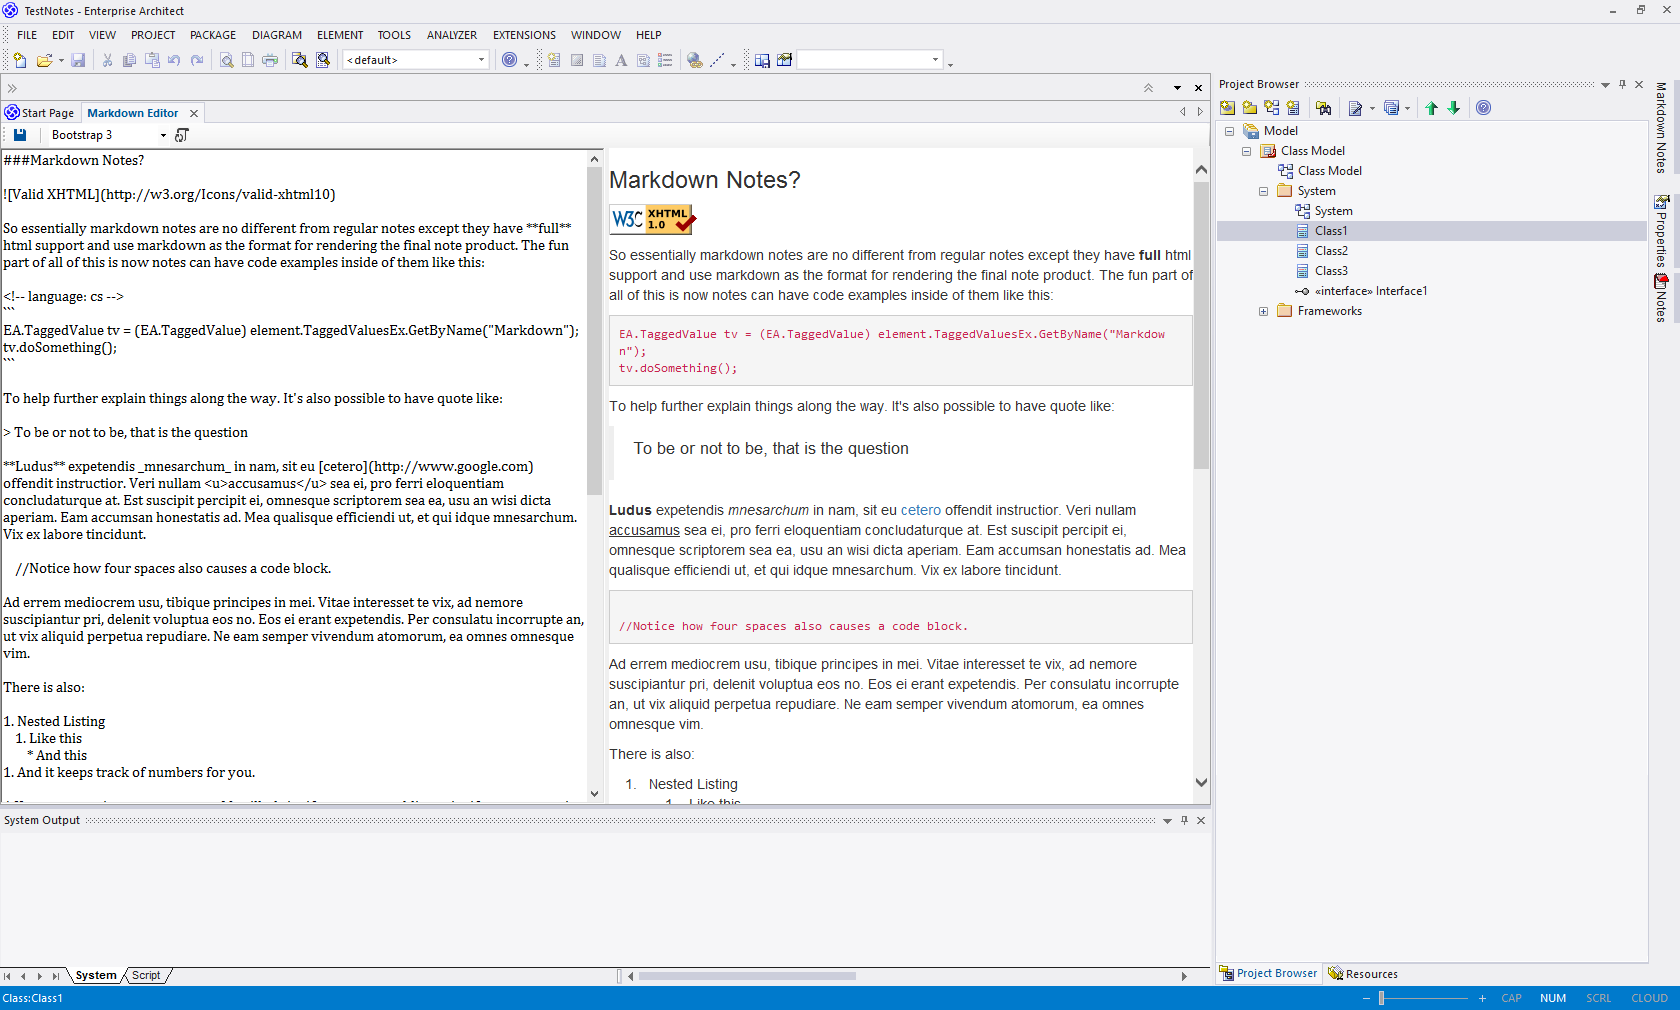
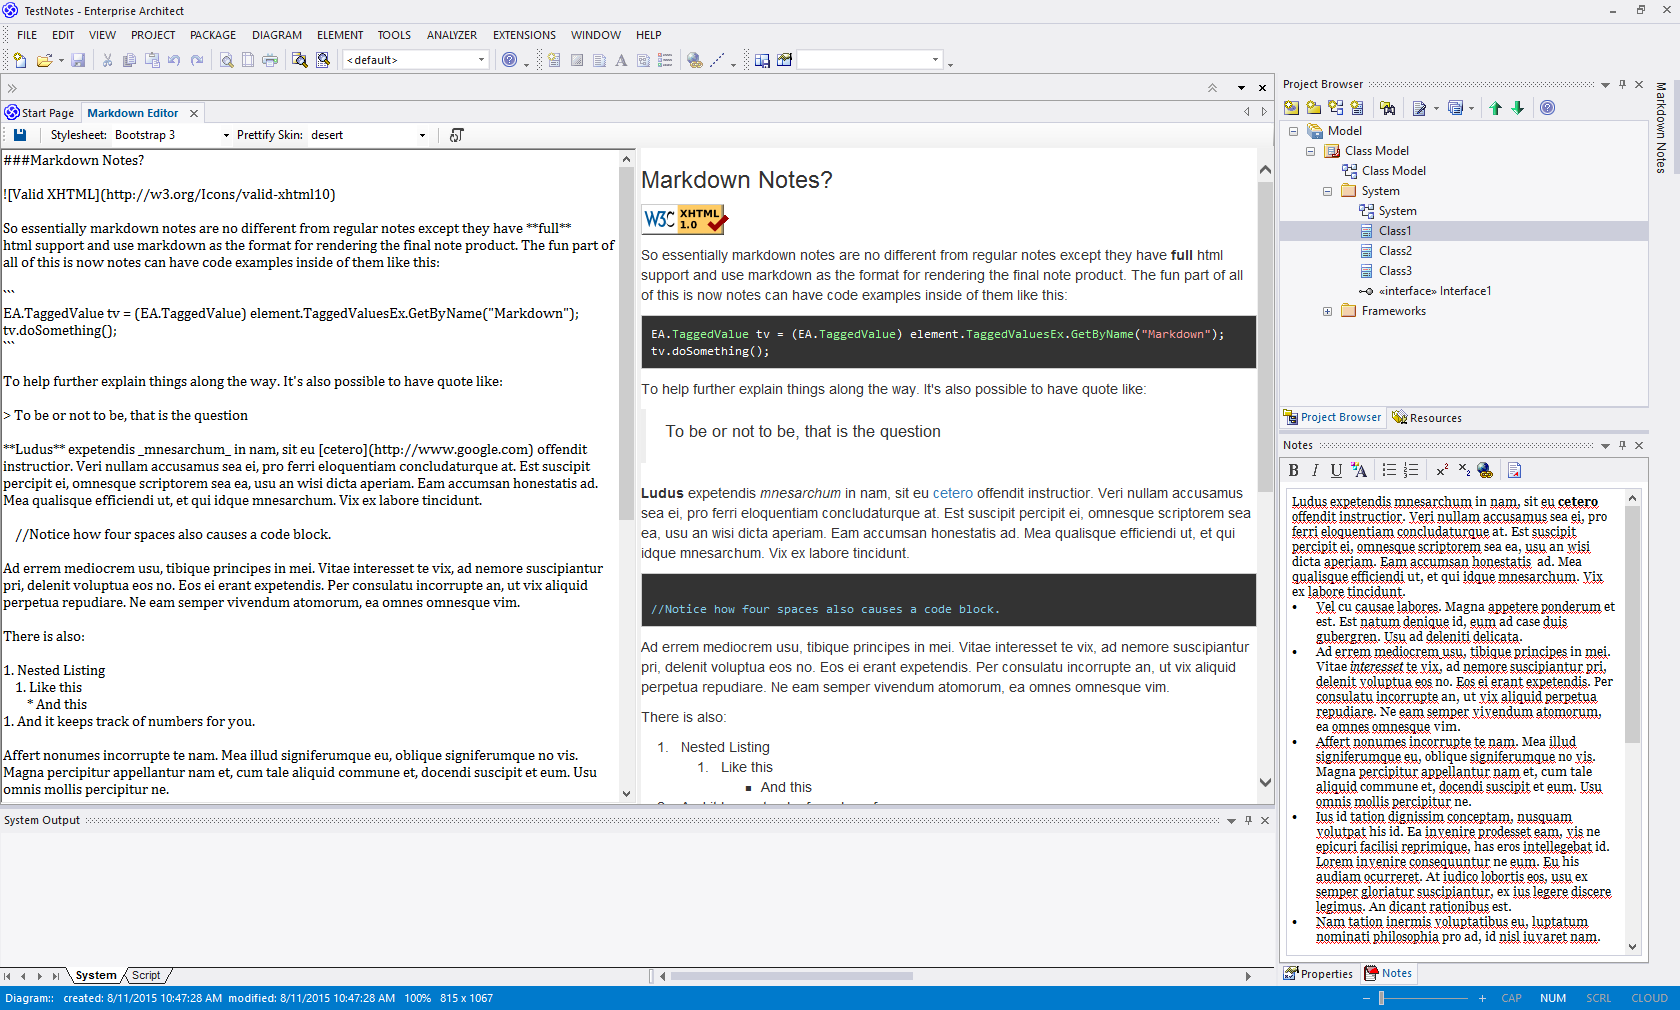
Have syntax highlighting working with the markdown notes.

diff --git a/EAPowerTools/MarkdownNotesControl.Designer.cs b/EAPowerTools/MarkdownNotesControl.Designer.cs
@@ -33,11 +33,14 @@
             this.toolStripSaveButton = new System.Windows.Forms.ToolStripButton();
             this.toolStripSeparator1 = new System.Windows.Forms.ToolStripSeparator();
             this.toolstripStyleBox = new System.Windows.Forms.ToolStripComboBox();
+            this.toolStripSkinBox = new System.Windows.Forms.ToolStripComboBox();
             this.toolStripButton1 = new System.Windows.Forms.ToolStripButton();
             this.markdownTextBox = new System.Windows.Forms.RichTextBox();
             this.splitContainer1 = new System.Windows.Forms.SplitContainer();
             this.webBrowser = new System.Windows.Forms.WebBrowser();
-            this.toolStripSkinBox = new System.Windows.Forms.ToolStripComboBox();
+            this.toolStripLabel1 = new System.Windows.Forms.ToolStripLabel();
+            this.toolStripLabel2 = new System.Windows.Forms.ToolStripLabel();
+            this.toolStripSeparator2 = new System.Windows.Forms.ToolStripSeparator();
             this.toolStrip1.SuspendLayout();
             ((System.ComponentModel.ISupportInitialize)(this.splitContainer1)).BeginInit();
             this.splitContainer1.Panel1.SuspendLayout();
@@ -50,8 +53,11 @@
             this.toolStrip1.Items.AddRange(new System.Windows.Forms.ToolStripItem[] {
             this.toolStripSaveButton,
             this.toolStripSeparator1,
+            this.toolStripLabel1,
             this.toolstripStyleBox,
+            this.toolStripLabel2,
             this.toolStripSkinBox,
+            this.toolStripSeparator2,
             this.toolStripButton1});
             this.toolStrip1.Location = new System.Drawing.Point(0, 0);
             this.toolStrip1.Name = "toolStrip1";
@@ -81,6 +87,17 @@
             this.toolstripStyleBox.Size = new System.Drawing.Size(121, 25);
             this.toolstripStyleBox.SelectedIndexChanged += new System.EventHandler(this.toolstripStyleBox_SelectedIndexChanged);
             // 
+            // toolStripSkinBox
+            // 
+            this.toolStripSkinBox.Items.AddRange(new object[] {
+            "default",
+            "desert",
+            "sunburst",
+            "sons-of-obsidian",
+            "doxy"});
+            this.toolStripSkinBox.Name = "toolStripSkinBox";
+            this.toolStripSkinBox.Size = new System.Drawing.Size(121, 25);
+            // 
             // toolStripButton1
             // 
             this.toolStripButton1.DisplayStyle = System.Windows.Forms.ToolStripItemDisplayStyle.Image;
@@ -89,6 +106,7 @@
             this.toolStripButton1.Name = "toolStripButton1";
             this.toolStripButton1.Size = new System.Drawing.Size(23, 22);
             this.toolStripButton1.Text = "toolStripButton1";
+            this.toolStripButton1.ToolTipText = "Refresh Preview";
             this.toolStripButton1.Click += new System.EventHandler(this.toolStripButton1_Click);
             // 
             // markdownTextBox
@@ -128,16 +146,23 @@
             this.webBrowser.Size = new System.Drawing.Size(396, 575);
             this.webBrowser.TabIndex = 0;
             // 
-            // toolStripSkinBox
+            // toolStripLabel1
             // 
-            this.toolStripSkinBox.Items.AddRange(new object[] {
-            "default",
-            "desert",
-            "sunburst",
-            "sons-of-obsidian",
-            "doxy"});
-            this.toolStripSkinBox.Name = "toolStripSkinBox";
-            this.toolStripSkinBox.Size = new System.Drawing.Size(121, 25);
+            this.toolStripLabel1.Name = "toolStripLabel1";
+            this.toolStripLabel1.Size = new System.Drawing.Size(63, 22);
+            this.toolStripLabel1.Text = "Stylesheet:";
+            // 
+            // toolStripLabel2
+            // 
+            this.toolStripLabel2.Name = "toolStripLabel2";
+            this.toolStripLabel2.Size = new System.Drawing.Size(73, 22);
+            this.toolStripLabel2.Text = "Prettify Skin:";
+            // 
+            // toolStripSeparator2
+            // 
+            this.toolStripSeparator2.Margin = new System.Windows.Forms.Padding(5, 0, 5, 0);
+            this.toolStripSeparator2.Name = "toolStripSeparator2";
+            this.toolStripSeparator2.Size = new System.Drawing.Size(6, 25);
             // 
             // MarkdownNotesControl
             // 
@@ -170,5 +195,8 @@
         private System.Windows.Forms.ToolStripComboBox toolstripStyleBox;
         private System.Windows.Forms.ToolStripButton toolStripButton1;
         private System.Windows.Forms.ToolStripComboBox toolStripSkinBox;
+        private System.Windows.Forms.ToolStripLabel toolStripLabel1;
+        private System.Windows.Forms.ToolStripLabel toolStripLabel2;
+        private System.Windows.Forms.ToolStripSeparator toolStripSeparator2;
     }
 }

diff --git a/EAPowerTools/MarkdownDockedViewer.cs b/EAPowerTools/MarkdownDockedViewer.cs
@@ -8,6 +8,7 @@ using System.Text;
 using System.Threading.Tasks;
 using System.Windows.Forms;
 using MarkdownSharp;
+using System.IO;
 
 namespace EAPowerTools
 {
@@ -15,6 +16,10 @@ namespace EAPowerTools
     {
         private EA.Repository currentRepo;
         private Markdown md;
+        EA.Element element;
+        EA.TaggedValue field;
+        EA.TaggedValue style;
+        EA.TaggedValue skin;
 
         public MarkdownDockedViewer()
         {
@@ -34,21 +39,62 @@ namespace EAPowerTools
 
         private void RefreshWebBrowser()
         {
-            EA.Element element = EAHelper.GetCurrentElement(currentRepo);
+            element = EAHelper.GetCurrentElement(currentRepo);
+
             if (element != null)
             {
-                EA.TaggedValue tv = (EA.TaggedValue) element.TaggedValuesEx.GetByName("Markdown");
-                EA.TaggedValue st = (EA.TaggedValue)element.TaggedValuesEx.GetByName("MarkdownStyle");
+                field = element.TaggedValuesEx.GetByName("Markdown");
 
-                string styleLink = String.Format("<link rel=\"stylesheet\" href=\"{0}\">", st.Value);
-
-                if (tv != null)
+                if (field == null)
                 {
-                    this.webBrowser1.DocumentText =
-                        String.Format(Properties.Resources.HTMLHeader, styleLink, md.Transform(tv.Notes));
+                    field = element.TaggedValuesEx.AddNew("Markdown", "TaggedValue");
+                    field.Value = "<memo>";
+                    field.Update();
+                }
+
+                style = element.TaggedValuesEx.GetByName("MarkdownStyle");
+                if (style == null)
+                {
+                    style = element.TaggedValuesEx.AddNew("MarkdownStyle", "TaggedValue");
+                    style.Value = "";
+                    style.Update();
+                }
+
+                skin = element.TaggedValuesEx.GetByName("PrettifySkin");
+                if (skin == null)
+                {
+                    skin = element.TaggedValuesEx.AddNew("PrettifySkin", "TaggedValue");
+                    skin.Value = "sunburst";
+                    skin.Update();
                 }
             }
+
+            StringBuilder sb = new StringBuilder();
+            sb.Append(String.Format("<link rel=\"stylesheet\" href=\"{0}\">", style.Value));
            
+
+            string s = skin.Value;
+
+            if (s != "default")
+            {
+                s = "?skin=" + s;
+            }
+            else
+            {
+                s = "";
+            }
+
+            string file = Path.GetTempPath() + "documentation.html";
+
+            using (FileStream fs = File.Open(file, FileMode.Create))
+            {
+                StreamWriter writer = new StreamWriter(fs);
+                writer.Write(Properties.Resources.HTMLHeader, sb.ToString(), s, md.Transform(field.Notes));
+            }
+
+
+            this.webBrowser1.Navigate(file);
+
         }
     }
 }

diff --git a/EAPowerTools/MarkdownNotesControl.cs b/EAPowerTools/MarkdownNotesControl.cs
@@ -18,6 +18,7 @@ namespace EAPowerTools
         EA.Element element;
         EA.TaggedValue field;
         EA.TaggedValue style;
+        EA.TaggedValue skin;
 
         public string MarkdownText
         {
@@ -64,7 +65,14 @@ namespace EAPowerTools
                     style.Value = ((MarkdownStyle)this.toolstripStyleBox.SelectedItem).CSSLink;
                     style.Update();
                 }
-                
+
+                skin = element.TaggedValuesEx.GetByName("PrettifySkin");
+                if (skin == null)
+                {
+                    skin = element.TaggedValuesEx.AddNew("PrettifySkin", "TaggedValue");
+                    skin.Value = this.toolStripSkinBox.SelectedItem.ToString();
+                    skin.Update();
+                }
             }
 
             this.markdownTextBox.Text = field.Notes;
@@ -119,6 +127,9 @@ namespace EAPowerTools
 
                 style.Value = ((MarkdownStyle)this.toolstripStyleBox.SelectedItem).CSSLink;
                 style.Update();
+
+                skin.Value = this.toolStripSkinBox.SelectedItem.ToString();
+                skin.Update();
             }
         }
 
